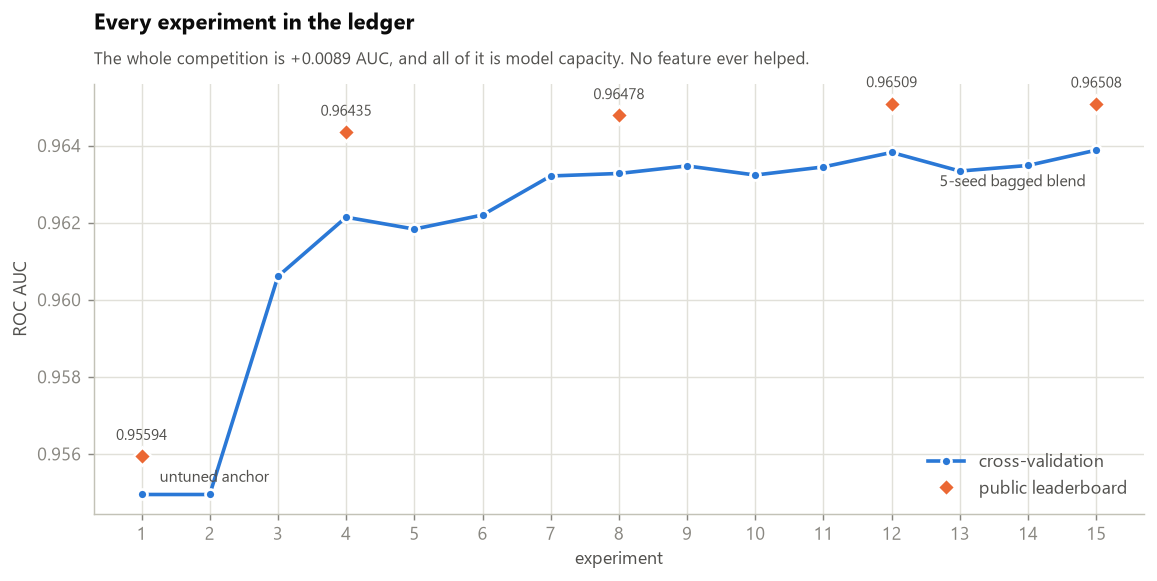
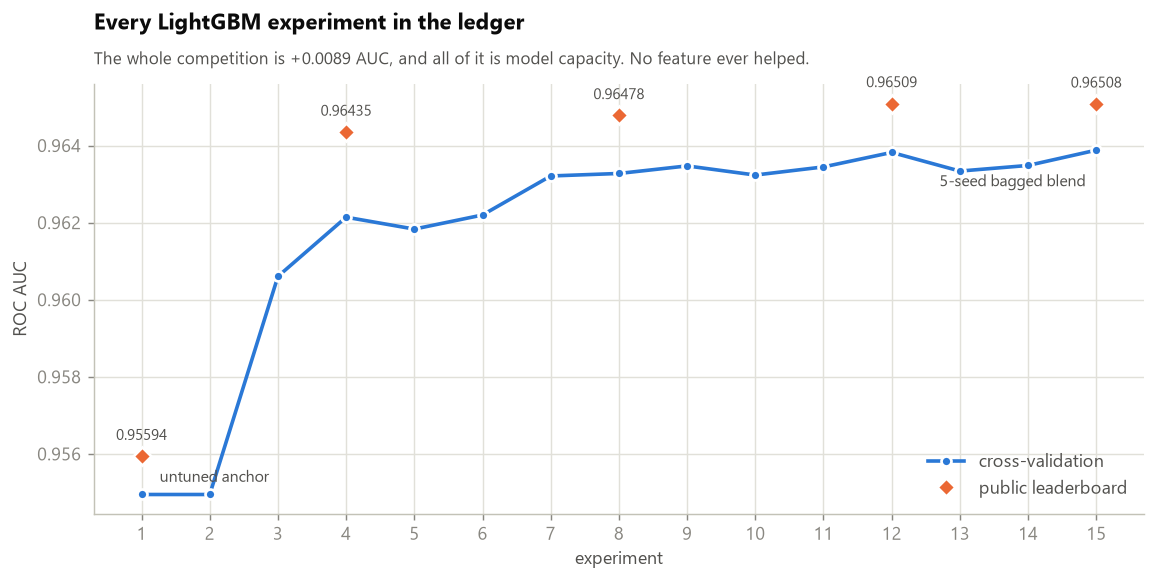
fix figures.py, it could not run against the generator

Changed region(s): [[0.1245, 0.0, 0.4667, 0.062]]

diff --git a/writeup/figures.py b/writeup/figures.py
@@ -53,11 +53,16 @@ def finish(ax, title, sub=None):
 
 
 # ------------------------------------------------------------------ fig 1: ledger
-led = D["ledger"]
+# Rows 1 to 15 are the LightGBM line. Row 16 is the neural model at 0.9392, a
+# different family that was never submitted; including it would flatten everything
+# else into a straight line. Named in the title rather than dropped in silence.
+led = [r for r in D["ledger"] if r["id"] <= 15]
 x = [r["id"] for r in led]
 cv = [r["cv_mean"] for r in led]
-lb_x = [r["id"] for r in led if r["lb_public"]]
-lb_y = [r["lb_public"] for r in led if r["lb_public"]]
+# `is not None`, not truthiness. An unsubmitted row is null here and NaN is truthy,
+# so a bare test would let a NaN through and rely on matplotlib silently dropping it.
+lb_x = [r["id"] for r in led if r["lb_public"] is not None]
+lb_y = [r["lb_public"] for r in led if r["lb_public"] is not None]
 
 fig, ax = plt.subplots(figsize=(9, 4.6))
 ax.plot(x, cv, color=BLUE, lw=2, marker="o", ms=5.5, label="cross-validation",
@@ -75,7 +80,7 @@ ax.set_xlabel("experiment")
 ax.set_ylabel("ROC AUC")
 ax.set_xticks(x)
 ax.legend(frameon=False, loc="lower right", labelcolor=SECOND)
-finish(ax, "Every experiment in the ledger",
+finish(ax, "Every LightGBM experiment in the ledger",
        "The whole competition is +0.0089 AUC, and all of it is model capacity. "
        "No feature ever helped.")
 fig.tight_layout()
@@ -83,7 +88,7 @@ fig.savefig(OUTDIR / "fig1_ledger.png", bbox_inches="tight")
 plt.close(fig)
 
 # ------------------------------------------------------------- fig 2: missingness
-mi = D["missingness_clean"]
+mi = D["missingness"]
 names = [m["feature"] for m in mi]
 lift = np.array([m["lift"] for m in mi])
 # The band is +/- 2 standard errors, reconstructed from each feature's own z.
@@ -103,8 +108,13 @@ ax.set_yticklabels(names, fontsize=9.5, color=SECOND)
 ax.set_xlabel("target rate when the feature is missing, minus when it is present")
 ax.legend(frameon=False, loc="lower right", labelcolor=SECOND)
 ax.grid(axis="y", visible=False)
+# Computed, not typed. This subtitle used to carry a hardcoded 2.24 while the plotted
+# data came out at 1.98, so the label and the points disagreed and the figure looked
+# fine either way. A number in a caption gets read as measured; make it be measured.
+crossing = sum(1 for m in mi if abs(m["z"]) < 2)
 finish(ax, "Missingness carries no signal about the target",
-       "Eleven of twelve intervals cross zero. The largest |z| is 2.24, against the 2.4\n"
+       f"{crossing} of {len(mi)} intervals cross zero. The largest |z| is "
+       f"{max(abs(m['z']) for m in mi):.2f}, against the 2.4\n"
        "you would expect from pure noise across twelve tests. This killed my\n"
        "top-priority idea in ninety seconds.")
 fig.tight_layout()
